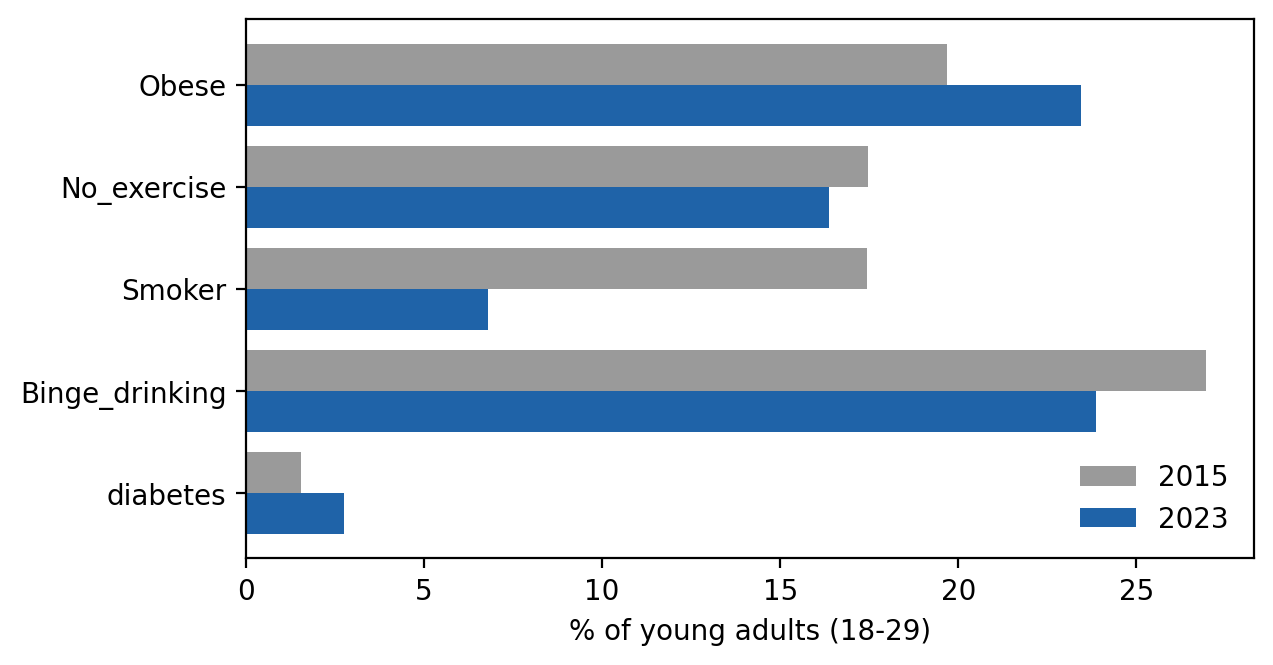
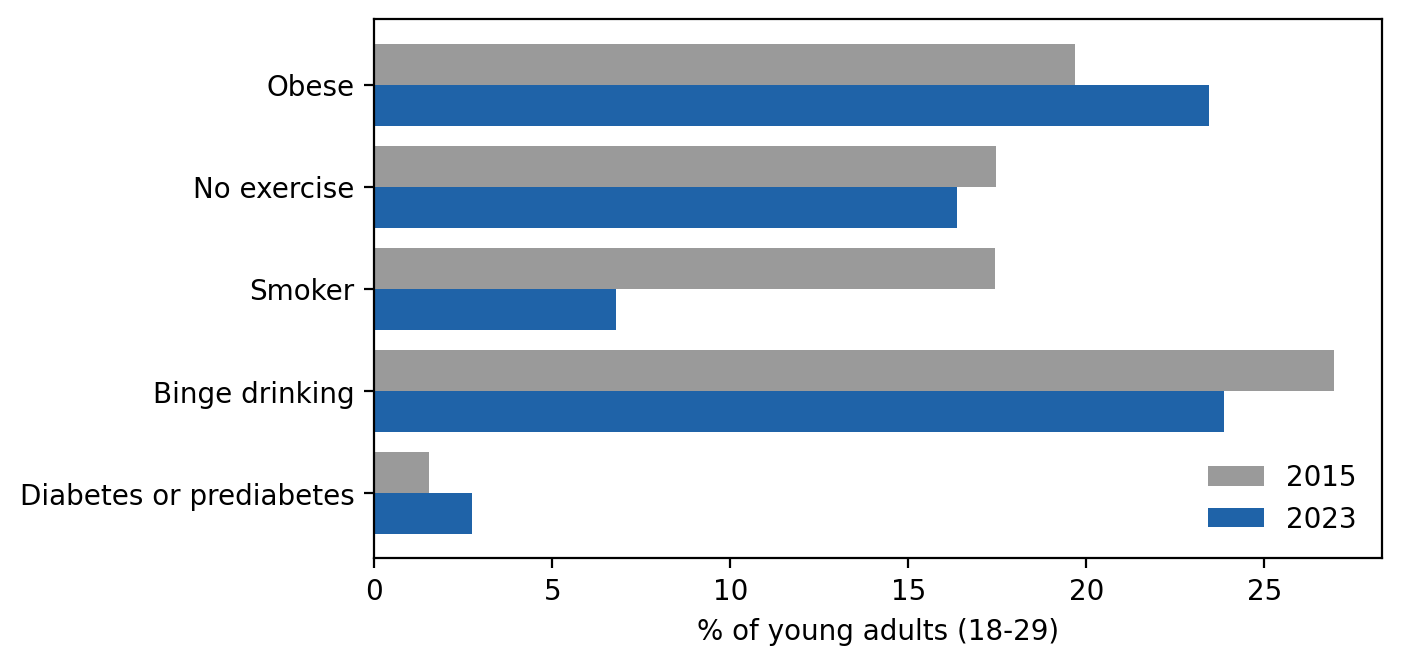
add the two checks from midterm feedback (healthier people only, minutes per week), 95% intervals and clean labels on the charts

diff --git a/q1_checks.py b/q1_checks.py
@@ -1,0 +1,65 @@
+# two checks on Q1 part 1, from the midterm peer review:
+#   1. reverse cause: people who are already sick may exercise less (or switch to walking).
+#      refit the same model without people in fair/poor health or with trouble walking.
+#   2. amount, not only type: the survey also gives minutes of activity per week.
+#      fit the same model with minutes per week in groups instead of the main sport.
+# both use the training set only (like the odds ratios in q1_part1), so the test set is not used here.
+
+import numpy as np
+import pandas as pd
+import matplotlib.pyplot as plt
+import tools
+
+train, _ = tools.load_train_valid("q1")
+
+names = {0: "No exercise", 7: "Bicycling", 37: "Running", 61: "Tennis", 64: "Walking",
+         67: "Weight lifting", 69: "Yoga", 18: "Gardening", 2: "Aerobics", 20: "Golf (walking)", 5: "Basketball"}
+adjust = "C(Age) + Sex + C(Income) + C(Education) + Smoker + HvyAlcoholConsump + Fruits + Veggies"
+
+# ---- check 1: same model as q1_part1 (full), without people in fair/poor health or with trouble walking
+d = train[train.MainSport.isin(names)].copy()
+d["sport"] = d.MainSport.map(names)
+healthy = d[(d.GenHlth <= 3) & (d.DiffWalk == 0)]
+print(f"\ncheck 1: {len(d)} people -> {len(healthy)} after removing fair/poor health or trouble walking")
+rows = {}
+for label, data in [("all", d), ("healthier only", healthy)]:
+    m = tools.fit_logit(f"Diabetes ~ C(sport, Treatment('No exercise')) + {adjust}", data)
+    keys = [k for k in m.params.index if k.startswith("C(sport")]
+    out = tools.odds_ratios(m, keys)
+    out.index = [k.split("T.")[1].rstrip("]") for k in keys]
+    rows[label] = out
+check1 = pd.DataFrame({"all": rows["all"].odds_ratio, "healthier only": rows["healthier only"].odds_ratio,
+                       "low_95": rows["healthier only"].low_95, "high_95": rows["healthier only"].high_95})
+check1 = check1.sort_values("all")
+check1["change"] = check1["healthier only"] - check1["all"]
+print("odds ratio vs no exercise:")
+print(check1.round(2).to_string())
+
+# ---- check 2: minutes of activity per week instead of the main sport
+bins = [-1, 0, 149, 299, 100000]
+labels = ["0 min", "1-149 min", "150-299 min", "300+ min"]
+m2 = train.dropna(subset=["PA_minutes"]).copy()
+m2["minutes"] = pd.cut(m2.PA_minutes, bins=bins, labels=labels).astype(str)
+fit2 = tools.fit_logit(f"Diabetes ~ C(minutes, Treatment('0 min')) + {adjust}", m2)
+keys = [k for k in fit2.params.index if k.startswith("C(minutes")]
+check2 = tools.odds_ratios(fit2, keys)
+check2.index = [k.split("T.")[1].rstrip("]") for k in keys]
+check2["n_train"] = m2.minutes.value_counts()[check2.index].values
+print("\ncheck 2: odds ratio vs 0 minutes per week:")
+print(check2.round(2).to_string())
+
+check1.to_csv("results/q1_check_healthier_only.csv")
+check2.to_csv("results/q1_check_minutes_per_week.csv")
+
+# figure: each sport's odds ratio with everyone vs without people in fair/poor health or with trouble walking
+fig, ax = plt.subplots(figsize=(6.5, 4))
+y = np.arange(len(check1))
+ax.barh(y - 0.2, check1["all"], height=0.4, color="#9a9a9a", label="everyone")
+ax.barh(y + 0.2, check1["healthier only"], height=0.4, color="#1f63a8", label="without fair/poor health or trouble walking")
+ax.set_yticks(y)
+ax.set_yticklabels(check1.index)
+ax.invert_yaxis()
+ax.axvline(1, color="#222222")
+ax.set_xlabel("Odds ratio vs no exercise")
+ax.legend(frameon=False, loc="lower center", bbox_to_anchor=(0.5, 1.0), ncol=2, fontsize=8)
+fig.savefig("figures/q1_check_healthier_only.png", dpi=200, bbox_inches="tight")

diff --git a/tools.py b/tools.py
@@ -203,10 +203,15 @@ def select_features(method, X, y, k=10):
 
 # ---- output
 
-def barh(values, path, xlabel, highlight=None, ref=1, size=(6.5, 3.5)):
+def barh(values, path, xlabel, highlight=None, ref=1, size=(6.5, 3.5), low=None, high=None):
+    # one bar per row, a line at ref (1 = no difference), and the 95% interval if low/high are given
     fig, ax = plt.subplots(figsize=size)
     colors = ["#c4622d" if i == highlight else "#1f63a8" for i in values.index[::-1]]
-    ax.barh(values.index[::-1], values[::-1], color=colors)
+    labels = [str(i).replace("_", " ") for i in values.index[::-1]]
+    err = None
+    if low is not None:
+        err = [(values - low)[::-1], (high - values)[::-1]]
+    ax.barh(labels, values[::-1], color=colors, xerr=err, ecolor="#555555", capsize=2)
     ax.axvline(ref, color="#222222")
     ax.set_xlabel(xlabel)
     fig.savefig(path, dpi=200, bbox_inches="tight")

diff --git a/q1_part2_exercise_vs_factors.py b/q1_part2_exercise_vs_factors.py
@@ -46,4 +46,5 @@ print(out.round(2).to_string())
 
 out.to_csv("results/q1_part2_exercise_vs_factors.csv")
 pd.DataFrame(scores).to_csv("results/q1_part2_model_check.csv", index=False)
-tools.barh(out.odds_ratio, "figures/q1_part2_exercise_vs_factors.png", "Odds ratio", highlight="No_exercise")
+tools.barh(out.odds_ratio, "figures/q1_part2_exercise_vs_factors.png", "Odds ratio (95% interval)", highlight="No_exercise",
+           low=out.low_95, high=out.high_95)

diff --git a/q1_part1_which_exercise.py b/q1_part1_which_exercise.py
@@ -54,4 +54,5 @@ print(out.round(2).to_string())
 
 out.to_csv("results/q1_part1_which_exercise.csv")
 pd.DataFrame(scores).to_csv("results/q1_part1_model_check.csv", index=False)
-tools.barh(out.odds_ratio, "figures/q1_part1_which_exercise.png", "Odds ratio vs no exercise", size=(6.5, 6.5))
+tools.barh(out.odds_ratio, "figures/q1_part1_which_exercise.png", "Odds ratio vs no exercise (95% interval)",
+           size=(6.5, 6.5), low=out.low_95, high=out.high_95)

diff --git a/q2_generations.py b/q2_generations.py
@@ -60,7 +60,7 @@ y = np.arange(len(pct))
 ax.barh(y - 0.2, pct["2015"], height=0.4, color="#9a9a9a", label="2015")
 ax.barh(y + 0.2, pct["2023"], height=0.4, color="#1f63a8", label="2023")
 ax.set_yticks(y)
-ax.set_yticklabels(pct.index)
+ax.set_yticklabels([i.replace("_", " ").replace("diabetes", "Diabetes or prediabetes") for i in pct.index])
 ax.invert_yaxis()
 ax.set_xlabel("% of young adults (18-29)")
 ax.legend(frameon=False)

diff --git a/run_all.py b/run_all.py
@@ -10,7 +10,7 @@ import sys
 import time
 
 STEPS = ["make_splits", "q1_part1_which_exercise", "q1_part2_exercise_vs_factors",
-         "q2_generations", "parent_paper_1", "novelty", "check_results"]
+         "q1_checks", "q2_generations", "parent_paper_1", "novelty", "check_results"]
 
 os.chdir(os.path.dirname(os.path.abspath(__file__)))
 os.makedirs("results", exist_ok=True)
